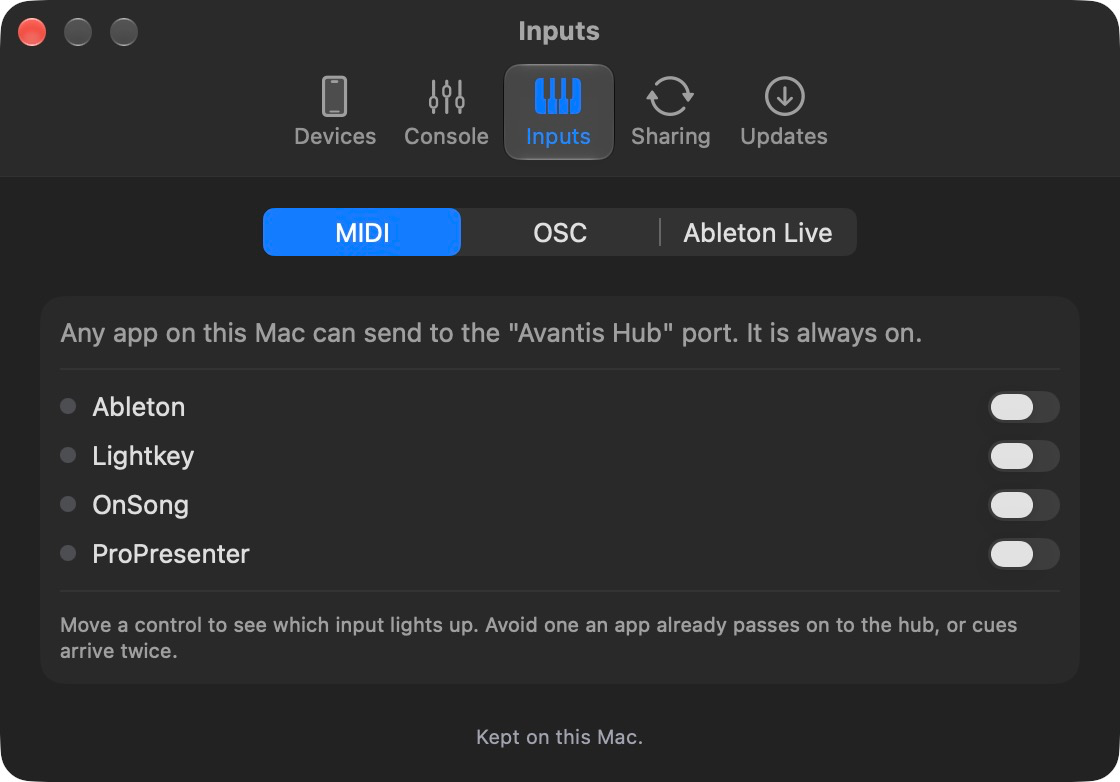
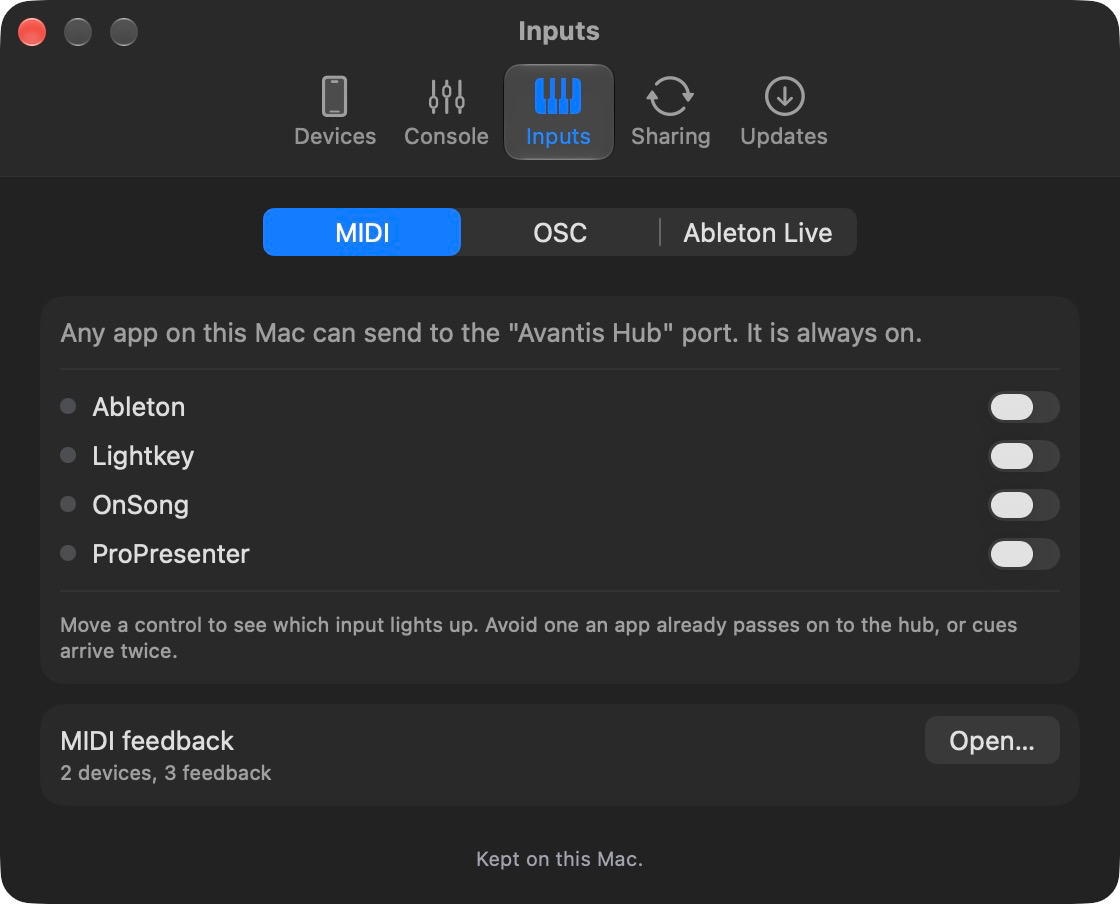
Manual: MIDI Feedback window picture, and the MIDI tab retaken

diff --git a/manual.html b/manual.html
@@ -577,6 +577,7 @@
 </ul>
 <h3>MIDI feedback <span class="new">New in 0.9.10</span></h3>
 <p>The hub can send MIDI to a controller or an app whenever something changes, so a pedal's LED, a pad's light or another program can show what is in effect: a singer's tuner, a quick button such as Vox Tuner On, or a track in Live such as Repeat. Most people never need it. It has a window of its own: click <strong>Set Up…</strong> or <strong>Open…</strong> beside MIDI feedback at the bottom of the MIDI tab, or choose <strong>Window &gt; MIDI Feedback</strong>.</p>
+<figure class="small"><img src="img/mac-midi-feedback.png" alt="Window > MIDI Feedback: devices on the left, the chosen one's port and feedback on the right." width="580" height="540" loading="lazy"><figcaption>Window > MIDI Feedback: devices on the left, the chosen one's port and feedback on the right.</figcaption></figure>
 <ol>
 <li>Type a name under <strong>Devices</strong>, such as "Left pedal" or the player's name, and click <strong>+</strong>. Then choose its <strong>Port on this Mac</strong>. A Keith McMillen SoftStep 2 is <strong>SSCOM Port 1</strong>, a SoftStep 3 <strong>SoftStep Control Surface</strong>. A device on another computer is reached through that computer's Bome Network port, with a route there to the device.</li>
 <li>Click <strong>Add Feedback</strong>. Choose what to send, a SoftStep key or your own messages, and what it follows:
@@ -841,7 +842,7 @@
 <li><strong>Shape of a glide:</strong> Even or Eased.</li>
 </ul>
 <h3>Inputs</h3>
-<figure class="small"><img src="img/mac-settings-inputs.png" alt="Settings > Inputs, MIDI." width="560" height="391" loading="lazy"><figcaption>Settings > Inputs, MIDI.</figcaption></figure>
+<figure class="small"><img src="img/mac-settings-inputs.png" alt="Settings > Inputs, MIDI." width="560" height="452" loading="lazy"><figcaption>Settings > Inputs, MIDI.</figcaption></figure>
 <ul>
 <li><strong>MIDI:</strong> the name of the hub's port, or the reason it could not be opened, and a switch for each other MIDI input on the Mac. These are kept on this Mac. See <a href="#inputs">Sending cues</a>.</li>
 <li><strong>OSC:</strong> Listen for OSC and the UDP port.</li>
